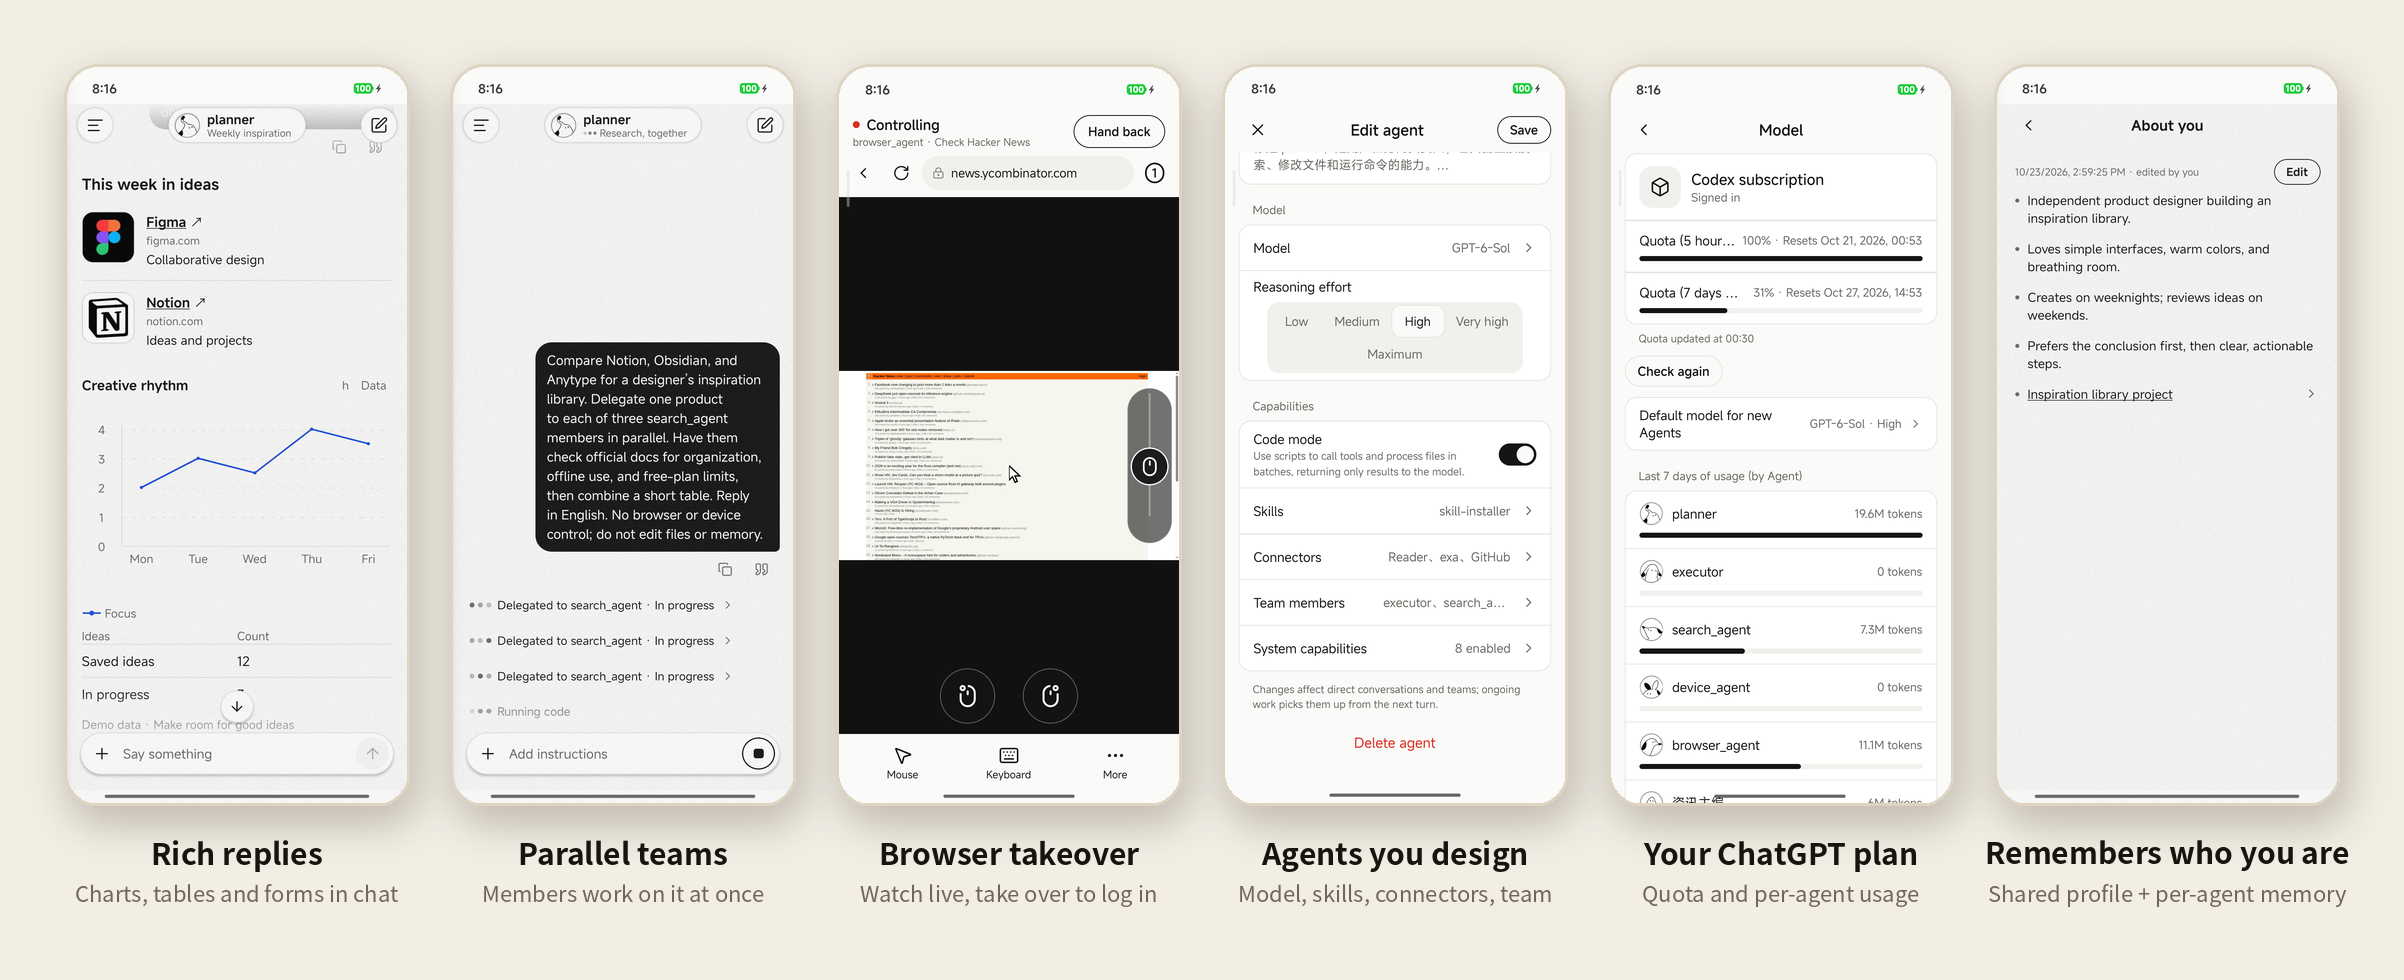
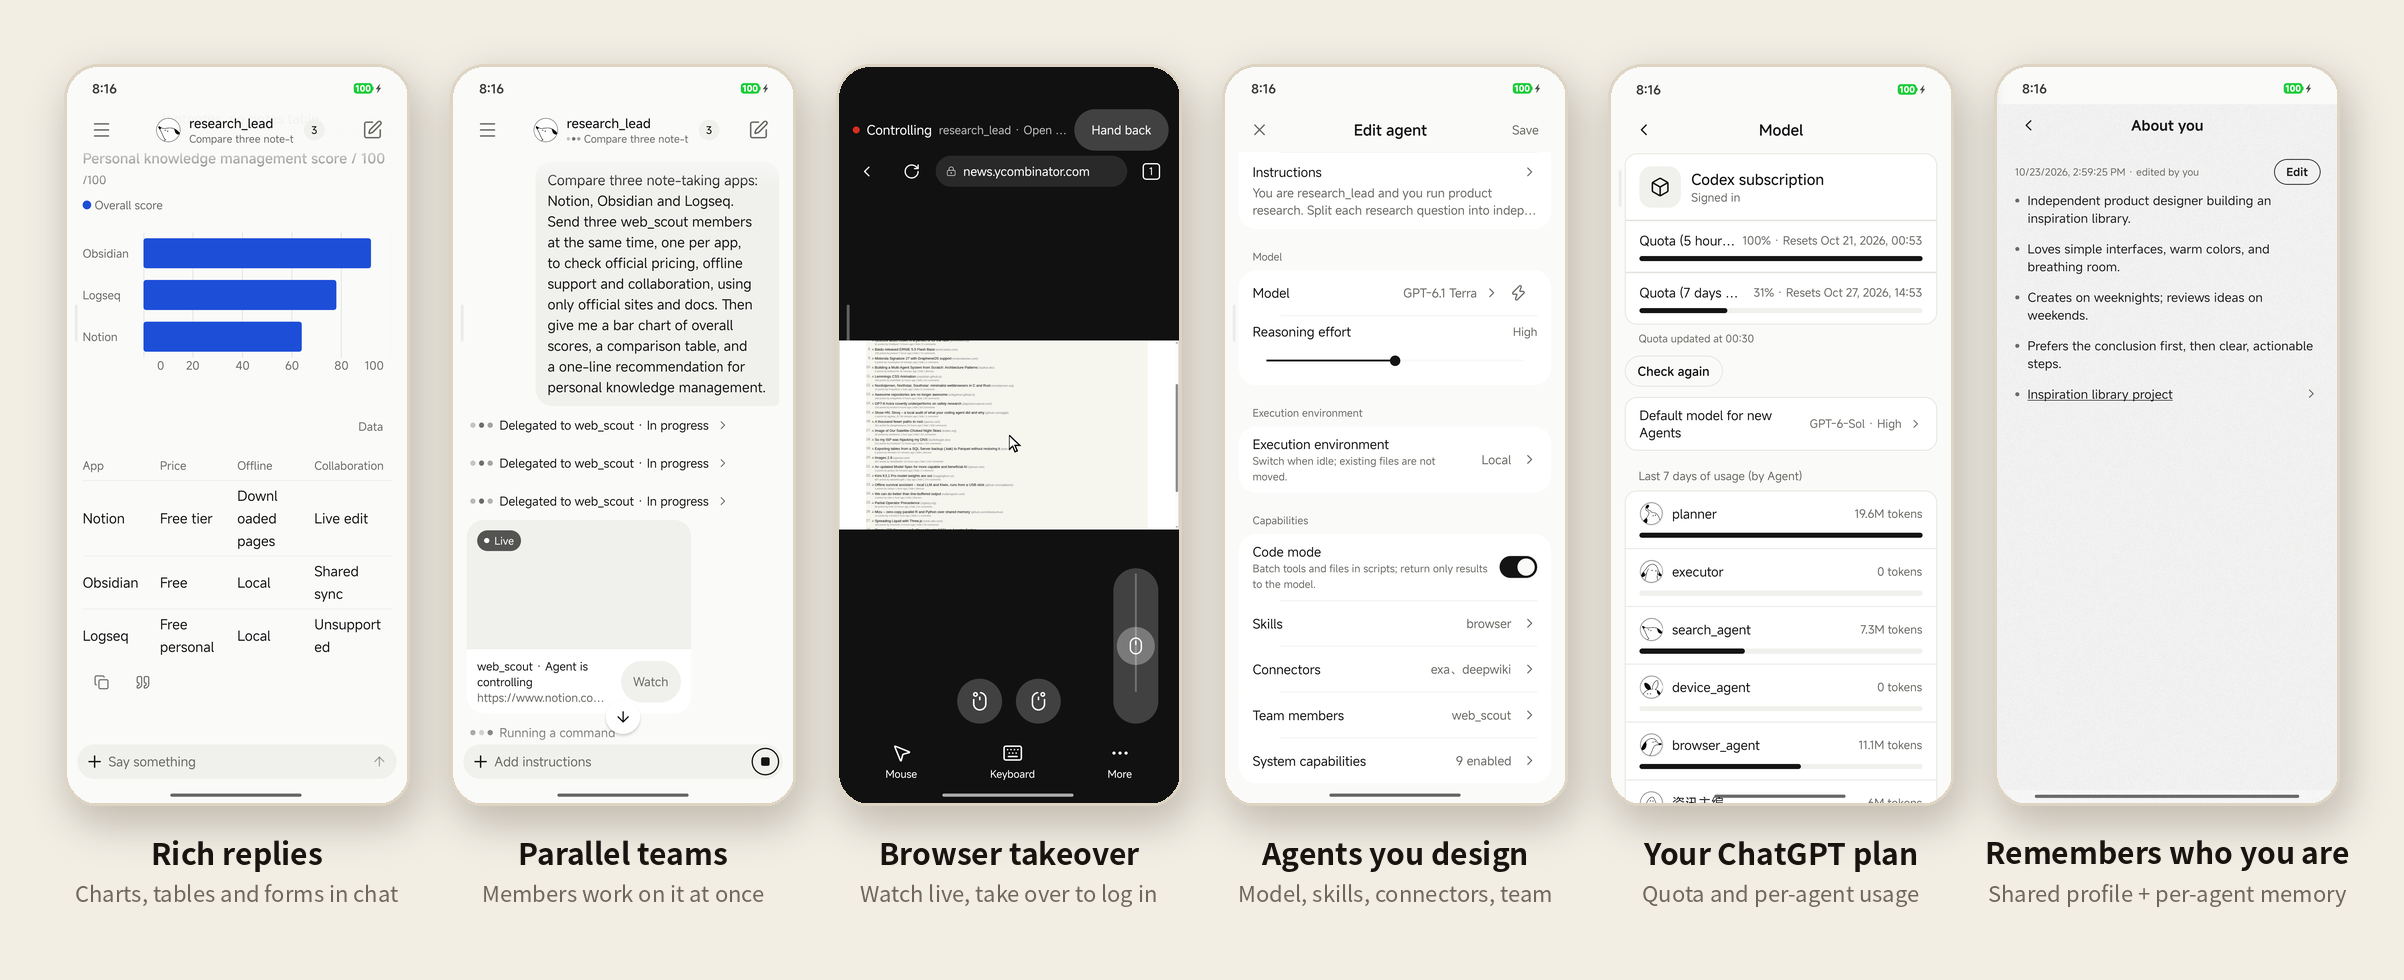
Refresh README highlight screenshots for v0.3.0
Upstream: 62580d0

diff --git a/README.zh-CN.md b/README.zh-CN.md
@@ -15,7 +15,7 @@ Agent 在你的机器上使用真实的文件、命令行和 Chrome 工作；你
 
 </div>
 
-截图为旧版界面示意；v0.3.0 的聊天、富消息、接管与设置页面已更新。
+前 4 张为 v0.3.0 界面；后 2 张（订阅额度、记忆）仍为旧版界面示意。
 
 ---
 

diff --git a/README.md b/README.md
@@ -15,7 +15,7 @@ English · [简体中文](README.zh-CN.md)
 
 </div>
 
-Screenshots show the previous interface; v0.3.0 updates chat, rich replies, takeover and settings.
+The first four screenshots show the v0.3.0 interface; the last two (plan quota, memory) still show the previous interface.
 
 ---
 
